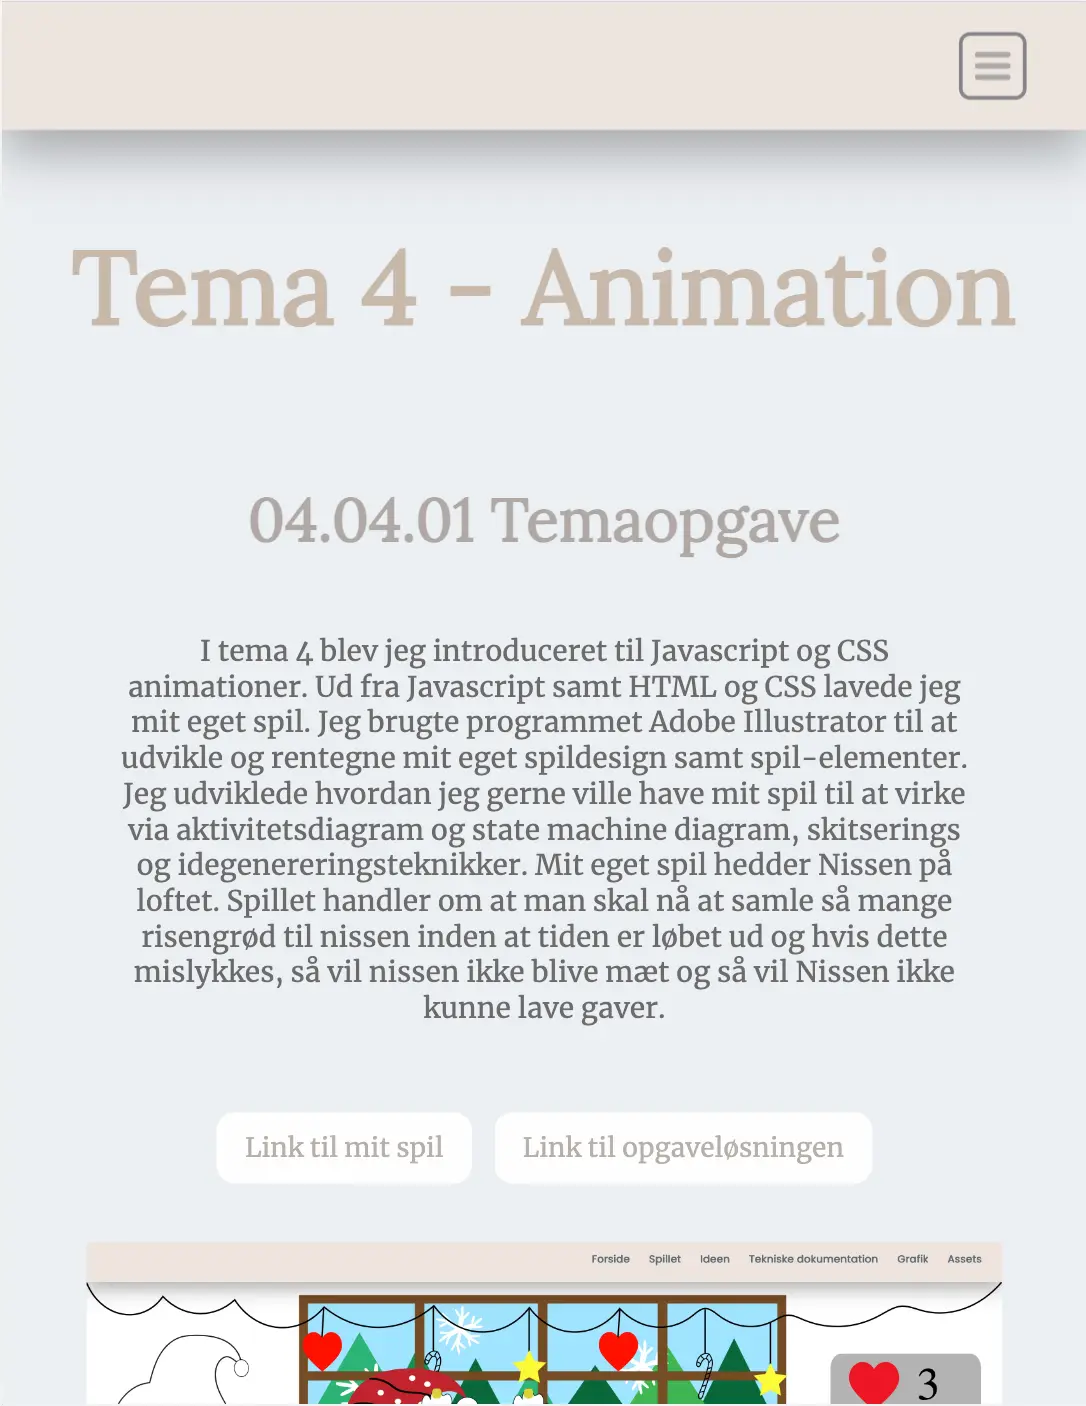
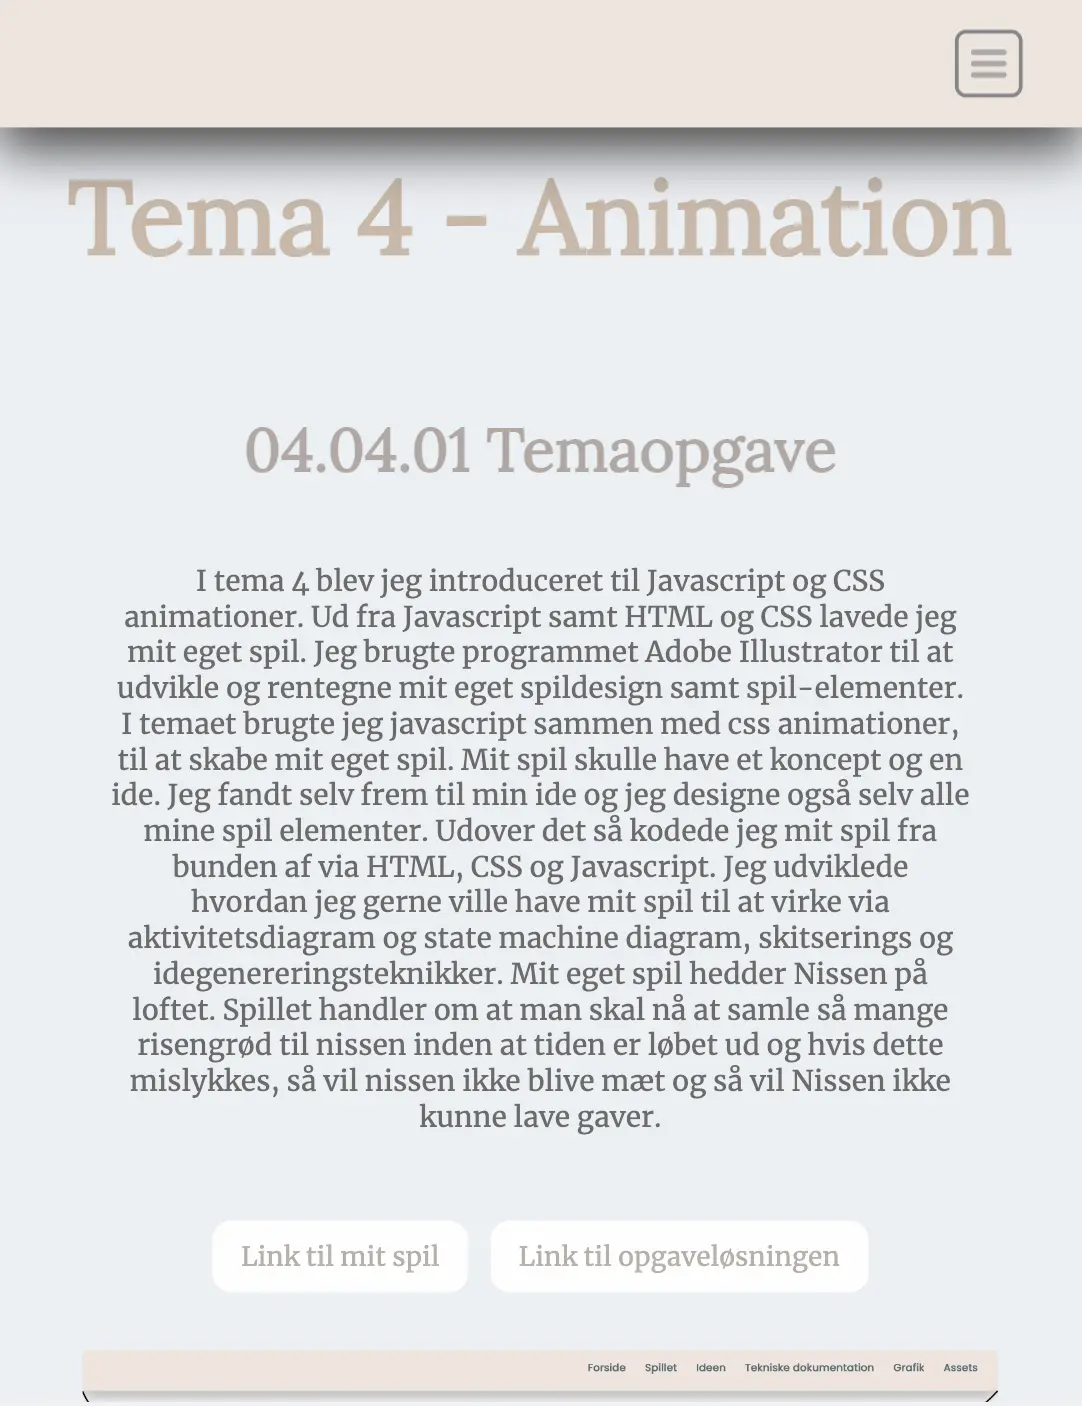
skrevet mere tekst

Changed region(s): [[0.0915, 0.3058, 0.8845, 0.8257], [0.0, 0.0, 1.0, 0.2447], [0.061, 0.8869, 0.9455, 1.0]]

diff --git a/tema4.html b/tema4.html
@@ -31,9 +31,10 @@
         <div class="animation1">
           <h2 class="overskrift8">04.04.01 Temaopgave</h2>
           <p class="tekst6">
-            I tema 4 blev jeg introduceret til Javascript og CSS animationer. Ud fra Javascript samt HTML og CSS lavede jeg mit eget spil. Jeg brugte programmet Adobe Illustrator til at udvikle og rentegne mit eget spildesign samt spil-elementer. Jeg
-            udviklede hvordan jeg gerne ville have mit spil til at virke via aktivitetsdiagram og state machine diagram, skitserings og idegenereringsteknikker. Mit eget spil hedder Nissen på loftet. Spillet handler om at man skal nå at samle så
-            mange risengrød til nissen inden at tiden er løbet ud og hvis dette mislykkes, så vil nissen ikke blive mæt og så vil Nissen ikke kunne lave gaver.
+            I tema 4 blev jeg introduceret til Javascript og CSS animationer. Ud fra Javascript samt HTML og CSS lavede jeg mit eget spil. Jeg brugte programmet Adobe Illustrator til at udvikle og rentegne mit eget spildesign samt spil-elementer. I
+            temaet brugte jeg javascript sammen med css animationer, til at skabe mit eget spil. Mit spil skulle have et koncept og en ide. Jeg fandt selv frem til min ide og jeg designe også selv alle mine spil elementer. Udover det så kodede jeg
+            mit spil fra bunden af via HTML, CSS og Javascript. Jeg udviklede hvordan jeg gerne ville have mit spil til at virke via aktivitetsdiagram og state machine diagram, skitserings og idegenereringsteknikker. Mit eget spil hedder Nissen på
+            loftet. Spillet handler om at man skal nå at samle så mange risengrød til nissen inden at tiden er løbet ud og hvis dette mislykkes, så vil nissen ikke blive mæt og så vil Nissen ikke kunne lave gaver.
           </p>
           <div class="link5">
             <form action="https://www.mmdkea.dk/kea/04_animation/website/spil.html">

diff --git a/style.css b/style.css
@@ -219,7 +219,7 @@ p {
 
 /* h3 på responsivt design skriften på website opgaven */
 .h3w {
-  font-size: 22px;
+  font-size: 20px;
   color: #85796c96;
   text-align: center;
   font-family: "Lora";
@@ -229,7 +229,7 @@ p {
 
 /* h3 på moodboard på emnesite opgaven */
 .h3e {
-  font-size: 22px;
+  font-size: 20px;
   color: #85796c96;
   text-align: center;
   font-family: "Lora";
@@ -267,7 +267,7 @@ p {
 .link2 {
   display: flex;
   justify-content: center;
-  padding-top: 25px;
+  padding-top: 20px;
 }
 
 /* har sat det ind i en media queries, så det også virker på mobil størrelse- det vil sige så sitet er responsivt */
@@ -430,6 +430,7 @@ p {
   .grid_1-1-1 {
     display: grid;
     grid-template-columns: 1fr;
+    padding: 30px;
   }
 
   .img4 {
@@ -528,6 +529,7 @@ p {
   .grid_1-1 {
     display: grid;
     grid-template-columns: 1fr;
+    padding: 10px;
   }
 
   .img10 {
@@ -656,7 +658,7 @@ p {
   grid-template-columns: 1fr 1fr 1fr;
   grid-row: 1fr 1fr;
   gap: 30px;
-  padding: 40px;
+  padding: 60px;
 }
 
 /* grid på billederne af layoutdiagrammerne */
@@ -665,7 +667,7 @@ p {
   grid-template-columns: 1fr 1fr 1fr 1fr;
   grid-row: 1fr 1fr;
   gap: 10px;
-  padding: 20px;
+  padding: 40px;
 }
 
 /* overskrift på h2 i portfolio eksamen opgave- Beskrivelse og dokumentation af min proces med at udvikle portfolio-sitet */
@@ -683,7 +685,7 @@ p {
   color: #85796c96;
   text-align: center;
   font-family: "Lora";
-  padding-top: 35px;
+  padding-top: 28px;
 }
 
 /* tekst på portfolio eksamen opgaven */
@@ -702,14 +704,12 @@ p {
     display: grid;
     grid-template-columns: 1fr;
     grid-template-rows: 1fr;
-    padding: 20px;
   }
 
   .grid_4-2 {
     display: grid;
     grid-template-columns: 1fr;
     grid-template-rows: 1fr;
-    padding: 20px;
   }
 
   .img18 {
